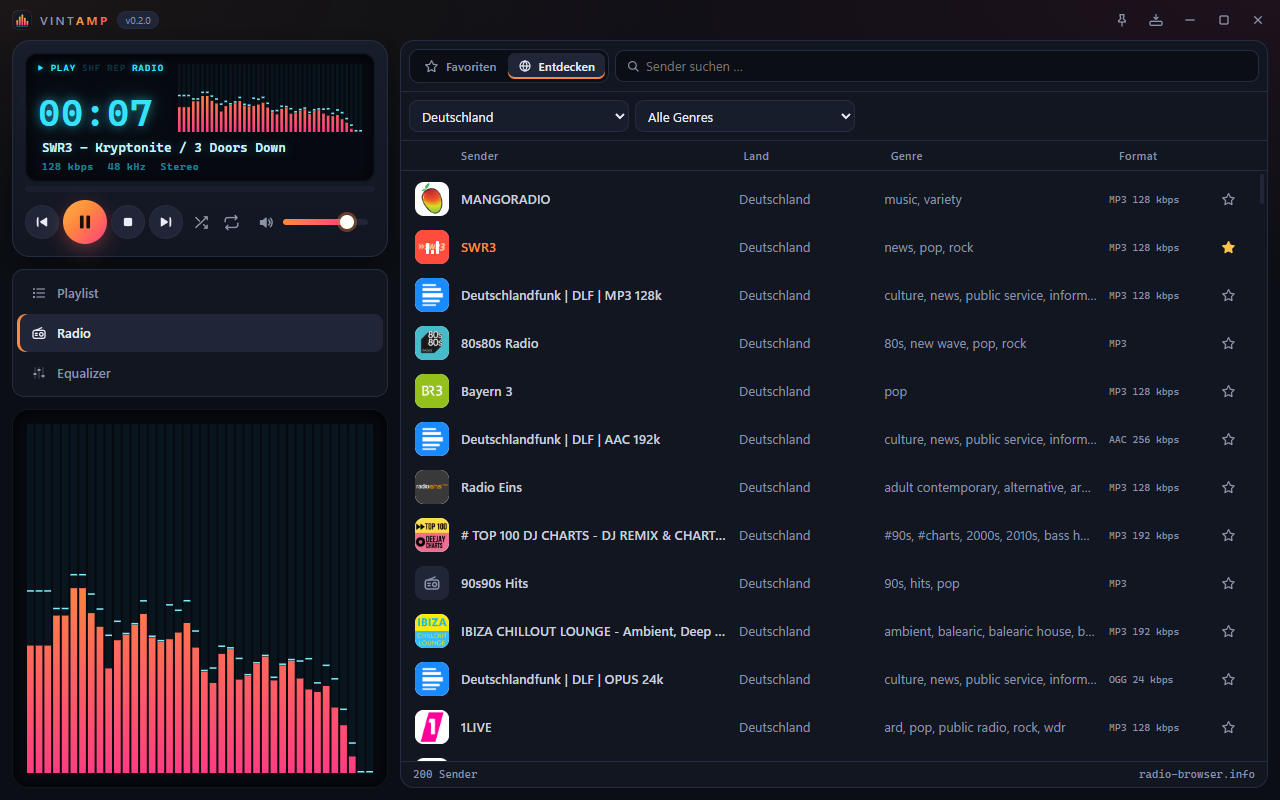
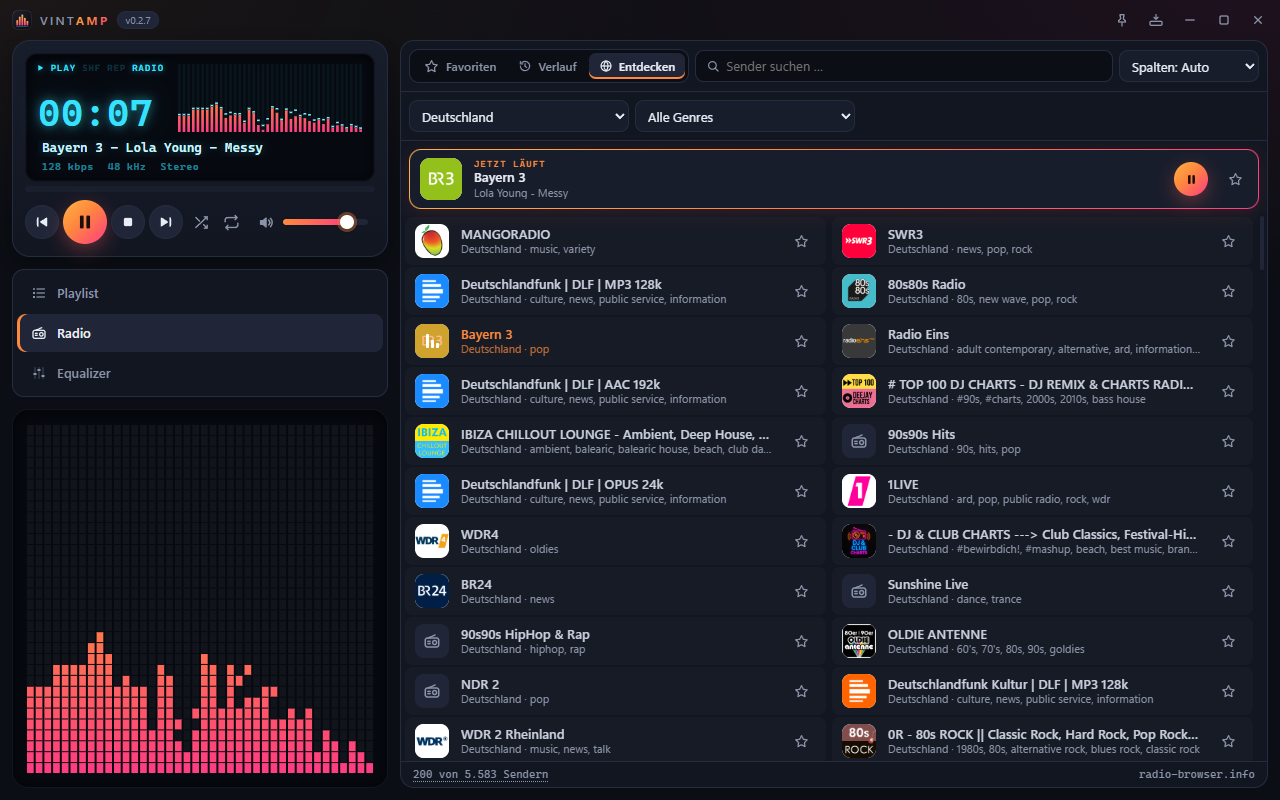
Docs: neue Screenshots (v0.2.7) mit MIDI, Visualizer-Übersicht und Rechtsklick-Menü

diff --git a/README.md b/README.md
@@ -1,20 +1,34 @@
 # Vintamp
 
 **Der Player, wie er früher war – nur schöner.**
-Klein, schnell, startet sofort und spielt so gut wie alles, Musik wie Video: mit Internetradio,
-Equalizer, Spektrum-Visualizer und Mini-Modus, im modernen dunklen Design.
+Klein, schnell, startet sofort und spielt so gut wie alles, Musik wie Video: mit Internetradio
+(über 50.000 Sender), MIDI mit Spur-Ansicht, 10-Band-Equalizer, 16 Visualizern und Mini-Modus –
+im modernen dunklen Design.
 
 **[⬇ Neueste Version für Windows herunterladen](https://github.com/hunther2k/vintamp-releases/releases/latest)**
 
 <p>
   <img src="docs/player.png" alt="Vintamp – Player mit Playlist" width="250">
   &nbsp;
-  <img src="docs/radio.png" alt="Vintamp – Internetradio" width="250">
+  <img src="docs/radio.png" alt="Vintamp – Internetradio mit „Jetzt läuft“" width="250">
   &nbsp;
   <img src="docs/equalizer.png" alt="Vintamp – 10-Band-Equalizer" width="250">
 </p>
 
+**Maximiert oder im Vollbild** – Player und großer Visualizer links, Senderliste mehrspaltig rechts:
+
 <p><img src="docs/breit.png" alt="Vintamp – breite Ansicht mit Senderliste und großem Visualizer" width="790"></p>
+
+**MIDI mit Spur-Ansicht** – jede Spur mit Instrument und Noten, einzeln stumm oder solo:
+
+<p><img src="docs/midi.png" alt="Vintamp – MIDI-Datei mit Spur-Ansicht (Piano-Roll)" width="790"></p>
+
+**16 Visualizer in 4 Farbschemata** – ein Klick schaltet weiter, **Rechtsklick** öffnet die Auswahl:
+
+<p>
+  <img src="docs/menu.png" alt="Vintamp – Rechtsklick-Menü des Visualizers" width="420">
+</p>
+<p><img src="docs/visualizer.png" alt="Vintamp – alle 16 Visualizer-Darstellungen" width="790"></p>
 
 ---
 
@@ -53,9 +67,15 @@ Equalizer, Spektrum-Visualizer und Mini-Modus, im modernen dunklen Design.
 - 10-Band-Equalizer mit Vorverstärker – Änderungen wirken sofort, ohne Knacken
 - 12 Voreinstellungen (Rock, Pop, Jazz, Klassik, Bass-Boost, Stimme, Kopfhörer …)
 
+**Visualizer**
+- 16 Darstellungen: Balken, Spiegel, LED-Segmente, Feine Linien, Von der Mitte, Kurve, Fläche,
+  Berge, Kreis-Spektrum, Pulsring, Sonnenstrahlen, Feuer, Wasserfall, VU-Meter, Funken, Sternenflug
+- 4 Farbschemata: Orange/Pink, Cyan-LCD, Hi-Fi Grün/Gelb/Rot, Regenbogen
+- Klick auf den Visualizer schaltet zur nächsten Darstellung, **Rechtsklick** öffnet das Auswahlmenü
+  mit allen Darstellungen und Farben
+- Display und großer Visualizer merken sich ihre Darstellung getrennt
+
 **Bedienung**
-- Visualizer mit 16 Darstellungen – Balken, LED-Segmente, Kreis-Spektrum, Feuer, Wasserfall,
-  VU-Meter, Sternenflug und mehr – in 4 Farbschemata (Rechtsklick öffnet die Auswahl)
 - Maximiert oder im Vollbild (F11) zweispaltig: Player und großer Visualizer links,
   Playlist mit Spalten (Titel, Interpret, Album, Typ, Länge) bzw. Senderliste rechts
 - Auf breiten Bildschirmen stehen Playlist und Sender mehrspaltig nebeneinander –
